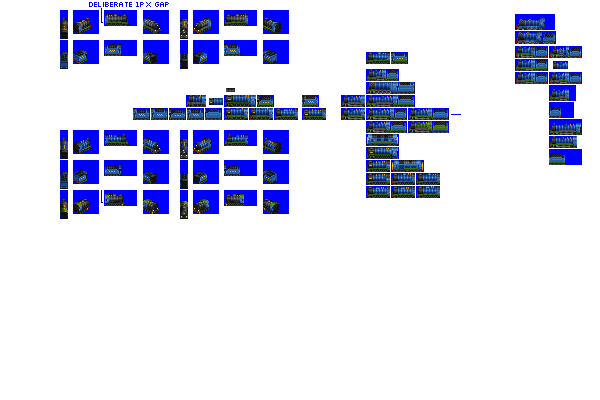
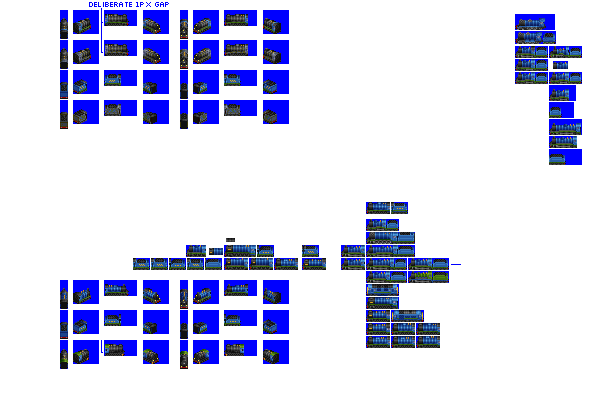
Change: additional liveries for Lemon and Blind Smuir

Changed region(s): [[0.09, 0.09, 0.75, 0.93]]

diff --git a/src/vehicles/blind_smuir.py b/src/vehicles/blind_smuir.py
@@ -18,6 +18,7 @@ def main(roster_id):
         fixed_run_cost_points=150,  # small cost bonus for balance against same gen larger engines
         gen=3,
         intro_year_offset=2,  # let's be a little bit later for this one
+        additional_liveries=["FREIGHT_BLACK"],
         sprites_complete=True,
     )
 

diff --git a/src/vehicles/lemon.py b/src/vehicles/lemon.py
@@ -15,6 +15,7 @@ def main(roster_id):
         speed=75,  # for lolz
         tractive_effort_coefficient=0.29,
         gen=3,
+        additional_liveries=["FREIGHT_BLACK"],
         sprites_complete=True,
     )
 
